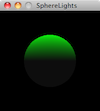
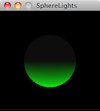
p3d tutorial updates

Changed region(s): [[0.24, 0.2973, 0.78, 0.5405], [0.24, 0.5676, 0.78, 0.8108]]

diff --git a/content/static/tutorials/p3d/index.html b/content/static/tutorials/p3d/index.html
@@ -256,8 +256,7 @@ void draw() {
 	
 	<p>If you don't want to get into the details of setting custom lighting for a 3D scene you can use Processing's <a href="http://processing.org/reference/lights_.html">lights()</a> function which sets default lighting.  Take a look at the following example, where a sphere is lit with default lighting only when the mouse is pressed.</p>
 	
-<p>
-[DS TO ADD IMAGE, INVESTIGATE WHY LIGHTS SEEM TO NOT BE WORKING THE WAY I EXPECT]<br/>
+<p><img src="imgs/lights0.png"> <img src="imgs/lights1.png"></p>
 <pre>
 void setup() {
   size(200, 200, P3D);
